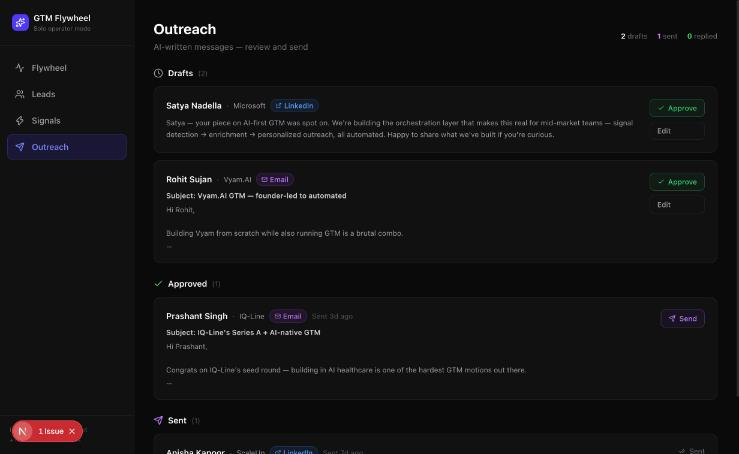
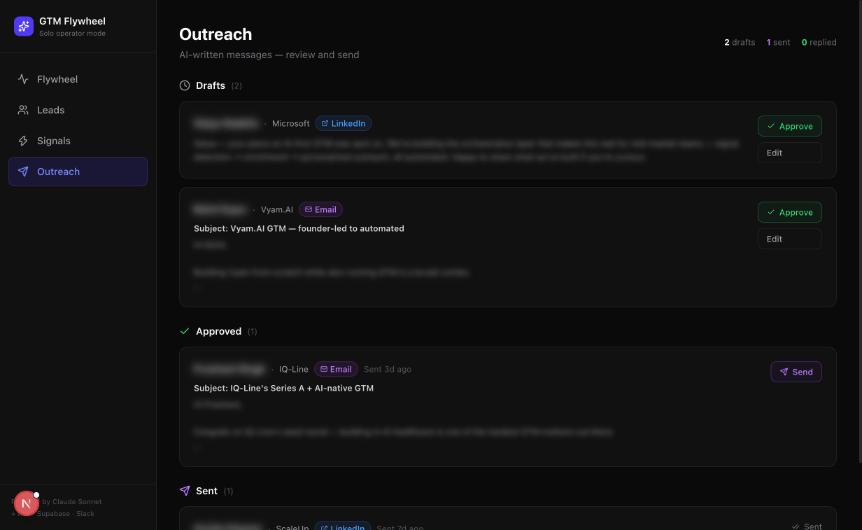
feat: wire HeyReach, Instantly, HubSpot, Slack integrations end-to-end
- Add integrations.ts with HeyReach, Instantly, HubSpot, Slack API clients
- Flywheel API: post Slack card on enrich, sync HubSpot on score,
  enroll HeyReach/Instantly and update HubSpot on write_outreach
- Fix Slack webhook to use SQLite instead of Supabase
- Update screenshots with names blurred for portfolio

diff --git a/src/lib/integrations.ts b/src/lib/integrations.ts
@@ -1,0 +1,181 @@
+const HEYREACH_BASE = "https://api.heyreach.io/api/public";
+const INSTANTLY_BASE = "https://api.instantly.ai/api/v2";
+const HUBSPOT_BASE = "https://api.hubapi.com";
+
+// ── HeyReach ──────────────────────────────────────────────────────────────────
+
+export async function addLeadToHeyReachCampaign(lead: {
+  linkedin_url: string;
+  full_name: string;
+  current_title?: string | null;
+  current_company?: string | null;
+  email?: string | null;
+}) {
+  const key = process.env.HEYREACH_API_KEY;
+  const campaignId = process.env.HEYREACH_CAMPAIGN_ID;
+  const accountId = process.env.HEYREACH_LINKEDIN_ACCOUNT_ID;
+  if (!key || !campaignId || !accountId) return { ok: false, error: "HeyReach not configured" };
+
+  const [firstName, ...rest] = lead.full_name.split(" ");
+  const lastName = rest.join(" ");
+
+  const res = await fetch(`${HEYREACH_BASE}/v1/campaign/AddLeadsToCampaign`, {
+    method: "POST",
+    headers: { "Content-Type": "application/json", "X-API-KEY": key },
+    body: JSON.stringify({
+      campaignId: Number(campaignId),
+      accountId: Number(accountId),
+      leadsToAdd: [{
+        profileUrl: lead.linkedin_url,
+        firstName,
+        lastName,
+        position: lead.current_title ?? "",
+        companyName: lead.current_company ?? "",
+        email: lead.email ?? "",
+      }],
+    }),
+  });
+
+  const data = await res.json().catch(() => ({}));
+  return { ok: res.ok, status: res.status, data };
+}
+
+// ── Instantly ─────────────────────────────────────────────────────────────────
+
+export async function addLeadToInstantlyCampaign(lead: {
+  email: string;
+  full_name: string;
+  current_company?: string | null;
+  current_title?: string | null;
+}) {
+  const key = process.env.INSTANTLY_API_KEY;
+  const campaignId = process.env.INSTANTLY_CAMPAIGN_ID;
+  if (!key || !campaignId) return { ok: false, error: "Instantly not configured" };
+
+  const res = await fetch(`${INSTANTLY_BASE}/leads`, {
+    method: "POST",
+    headers: { "Content-Type": "application/json", Authorization: `Bearer ${key}` },
+    body: JSON.stringify({
+      campaign_id: campaignId,
+      email: lead.email,
+      first_name: lead.full_name.split(" ")[0],
+      last_name: lead.full_name.split(" ").slice(1).join(" "),
+      company_name: lead.current_company ?? "",
+      personalization: `${lead.current_title ?? ""} at ${lead.current_company ?? ""}`.trim(),
+    }),
+  });
+
+  const data = await res.json().catch(() => ({}));
+  return { ok: res.ok, status: res.status, data };
+}
+
+// ── HubSpot ───────────────────────────────────────────────────────────────────
+
+export async function upsertHubSpotContact(lead: {
+  full_name: string;
+  email?: string | null;
+  current_title?: string | null;
+  current_company?: string | null;
+  location?: string | null;
+  linkedin_url: string;
+  fit_score?: number | null;
+  stage: string;
+}) {
+  const token = process.env.HUBSPOT_ACCESS_TOKEN;
+  if (!token) return { ok: false, error: "HubSpot not configured" };
+
+  const [firstName, ...rest] = lead.full_name.split(" ");
+  const props: Record<string, string> = {
+    firstname: firstName,
+    lastname: rest.join(" "),
+    jobtitle: lead.current_title ?? "",
+    company: lead.current_company ?? "",
+    city: lead.location ?? "",
+    linkedin_url: lead.linkedin_url,
+    hs_lead_status: lead.stage.toUpperCase(),
+  };
+  if (lead.email) props.email = lead.email;
+  if (lead.fit_score != null) props.gtm_fit_score = String(lead.fit_score);
+
+  // Search for existing contact by linkedin_url
+  const searchRes = await fetch(`${HUBSPOT_BASE}/crm/v3/objects/contacts/search`, {
+    method: "POST",
+    headers: { "Content-Type": "application/json", Authorization: `Bearer ${token}` },
+    body: JSON.stringify({
+      filterGroups: [{ filters: [{ propertyName: "linkedin_url", operator: "EQ", value: lead.linkedin_url }] }],
+      limit: 1,
+    }),
+  });
+  const searchData = await searchRes.json().catch(() => ({ results: [] }));
+  const existing = searchData.results?.[0];
+
+  if (existing) {
+    const patchRes = await fetch(`${HUBSPOT_BASE}/crm/v3/objects/contacts/${existing.id}`, {
+      method: "PATCH",
+      headers: { "Content-Type": "application/json", Authorization: `Bearer ${token}` },
+      body: JSON.stringify({ properties: props }),
+    });
+    const data = await patchRes.json().catch(() => ({}));
+    return { ok: patchRes.ok, action: "updated", contactId: existing.id, data };
+  }
+
+  const createRes = await fetch(`${HUBSPOT_BASE}/crm/v3/objects/contacts`, {
+    method: "POST",
+    headers: { "Content-Type": "application/json", Authorization: `Bearer ${token}` },
+    body: JSON.stringify({ properties: props }),
+  });
+  const data = await createRes.json().catch(() => ({}));
+  return { ok: createRes.ok, action: "created", contactId: data.id, data };
+}
+
+// ── Slack notify ──────────────────────────────────────────────────────────────
+
+export async function postSlackLeadCard(lead: {
+  id: string;
+  full_name: string;
+  current_title?: string | null;
+  current_company?: string | null;
+  fit_score?: number | null;
+  stage: string;
+  linkedin_url: string;
+  research?: string | null;
+}) {
+  const token = process.env.SLACK_BOT_TOKEN;
+  const channel = process.env.SLACK_CHANNEL_ID;
+  if (!token || !channel) return { ok: false, error: "Slack not configured" };
+
+  const scoreEmoji = lead.fit_score == null ? "⬜" : lead.fit_score >= 80 ? "🟢" : lead.fit_score >= 60 ? "🟡" : "🔴";
+
+  const res = await fetch("https://slack.com/api/chat.postMessage", {
+    method: "POST",
+    headers: { "Content-Type": "application/json", Authorization: `Bearer ${token}` },
+    body: JSON.stringify({
+      channel,
+      text: `New lead ready: ${lead.full_name}`,
+      blocks: [
+        {
+          type: "section",
+          text: {
+            type: "mrkdwn",
+            text: `*${lead.full_name}* · ${lead.current_title ?? "—"} @ ${lead.current_company ?? "—"}\n${scoreEmoji} Fit score: *${lead.fit_score ?? "—"}* · Stage: \`${lead.stage}\``,
+          },
+        },
+        ...(lead.research ? [{
+          type: "section",
+          text: { type: "mrkdwn", text: `_${lead.research.slice(0, 300)}…_` },
+        }] : []),
+        {
+          type: "actions",
+          elements: [
+            { type: "button", text: { type: "plain_text", text: "✅ Replied" }, action_id: "mark_replied", value: lead.id },
+            { type: "button", text: { type: "plain_text", text: "📅 Call Booked" }, action_id: "mark_call_booked", value: lead.id, style: "primary" },
+            { type: "button", text: { type: "plain_text", text: "❌ Lost" }, action_id: "mark_lost", value: lead.id, style: "danger" },
+          ],
+        },
+      ],
+    }),
+  });
+
+  const data = await res.json().catch(() => ({}));
+  return { ok: res.ok && data.ok, data };
+}

diff --git a/src/app/api/flywheel/route.ts b/src/app/api/flywheel/route.ts
@@ -1,6 +1,12 @@
 import { NextRequest, NextResponse } from "next/server";
 import { getDb, parseLead, serializeJson } from "@/lib/db";
 import { scoreLead, writeOutreach, researchLead } from "@/agents/flywheel-agent";
+import {
+  addLeadToHeyReachCampaign,
+  addLeadToInstantlyCampaign,
+  upsertHubSpotContact,
+  postSlackLeadCard,
+} from "@/lib/integrations";
 import type { Lead } from "@/types";
 
 export async function POST(req: NextRequest) {
@@ -33,8 +39,21 @@ export async function POST(req: NextRequest) {
             last_enriched_at = datetime('now'), updated_at = datetime('now')
         WHERE id = ?
       `).run(research, serializeJson(talking_points), lead_id);
-      const updated = parseLead(db.prepare("SELECT * FROM leads WHERE id = ?").get(lead_id));
-      return NextResponse.json({ lead: updated });
+      const enriched = parseLead(db.prepare("SELECT * FROM leads WHERE id = ?").get(lead_id)) as Lead;
+
+      // Notify Slack that lead is enriched and ready for review
+      postSlackLeadCard({
+        id: enriched.id,
+        full_name: enriched.full_name ?? "Unknown",
+        current_title: enriched.current_title,
+        current_company: enriched.current_company,
+        fit_score: enriched.fit_score,
+        stage: enriched.stage,
+        linkedin_url: enriched.linkedin_url ?? "",
+        research: enriched.research,
+      }).catch(() => null);
+
+      return NextResponse.json({ lead: enriched });
     }
 
     case "score": {
@@ -42,20 +61,69 @@ export async function POST(req: NextRequest) {
       db.prepare(`
         UPDATE leads SET fit_score = ?, stage = 'scored', updated_at = datetime('now') WHERE id = ?
       `).run(score, lead_id);
-      const updated = parseLead(db.prepare("SELECT * FROM leads WHERE id = ?").get(lead_id));
-      return NextResponse.json({ lead: updated, score });
+      const scored = parseLead(db.prepare("SELECT * FROM leads WHERE id = ?").get(lead_id)) as Lead;
+
+      // Sync to HubSpot when scored
+      upsertHubSpotContact({
+        full_name: scored.full_name ?? "Unknown",
+        email: scored.email,
+        current_title: scored.current_title,
+        current_company: scored.current_company,
+        location: scored.location,
+        linkedin_url: scored.linkedin_url ?? "",
+        fit_score: scored.fit_score,
+        stage: scored.stage,
+      }).catch(() => null);
+
+      return NextResponse.json({ lead: scored, score });
     }
 
     case "write_outreach": {
       const channel = lead.outreach_channel ?? "email";
-      const msg = await writeOutreach(lead, channel === "both" ? "email" : channel);
+      const effectiveChannel = channel === "both" ? "email" : channel;
+      const msg = await writeOutreach(lead, effectiveChannel);
       const msgId = crypto.randomUUID();
       db.prepare(`
         INSERT INTO outreach_messages (id, lead_id, channel, subject, body, status)
         VALUES (?, ?, ?, ?, ?, 'draft')
-      `).run(msgId, lead_id, channel, msg.subject ?? null, msg.body);
+      `).run(msgId, lead_id, effectiveChannel, msg.subject ?? null, msg.body);
+
+      // Enroll in outreach sequences
+      if (effectiveChannel === "linkedin" || channel === "both") {
+        addLeadToHeyReachCampaign({
+          linkedin_url: lead.linkedin_url ?? "",
+          full_name: lead.full_name ?? "Unknown",
+          current_title: lead.current_title,
+          current_company: lead.current_company,
+          email: lead.email,
+        }).catch(() => null);
+      }
+      if ((effectiveChannel === "email" || channel === "both") && lead.email) {
+        addLeadToInstantlyCampaign({
+          email: lead.email,
+          full_name: lead.full_name ?? "Unknown",
+          current_company: lead.current_company,
+          current_title: lead.current_title,
+        }).catch(() => null);
+      }
+
+      // Update HubSpot stage to outreach_sent
+      upsertHubSpotContact({
+        full_name: lead.full_name ?? "Unknown",
+        email: lead.email,
+        current_title: lead.current_title,
+        current_company: lead.current_company,
+        location: lead.location,
+        linkedin_url: lead.linkedin_url ?? "",
+        fit_score: lead.fit_score,
+        stage: "outreach_sent",
+      }).catch(() => null);
+
+      db.prepare(`UPDATE leads SET stage = 'outreach_sent', updated_at = datetime('now') WHERE id = ?`).run(lead_id);
+
       const inserted = db.prepare("SELECT * FROM outreach_messages WHERE id = ?").get(msgId);
-      return NextResponse.json({ message: inserted });
+      const updatedLead = parseLead(db.prepare("SELECT * FROM leads WHERE id = ?").get(lead_id));
+      return NextResponse.json({ message: inserted, lead: updatedLead });
     }
 
     default:

diff --git a/src/app/api/webhook/slack/route.ts b/src/app/api/webhook/slack/route.ts
@@ -1,7 +1,7 @@
 import { NextRequest, NextResponse } from "next/server";
-import { getSupabase } from "@/lib/supabase";
+import { getDb, newId } from "@/lib/db";
 
-// Receives Slack events + button interactions from n8n webhook relay
+// Receives Slack events + button interactions
 export async function POST(req: NextRequest) {
   const body = await req.json();
 
@@ -10,31 +10,27 @@ export async function POST(req: NextRequest) {
     return NextResponse.json({ challenge: body.challenge });
   }
 
-  // Button action from SDR (replied / call booked / lost)
+  const db = getDb();
+
+  // Button action from SDR (replied / call_booked / lost)
   if (body.type === "block_actions") {
     const action = body.actions?.[0];
     const lead_id = action?.value;
     const action_id = action?.action_id;
 
-    if (!lead_id || !action_id) {
-      return NextResponse.json({ ok: true });
-    }
-
-    const stageMap: Record<string, string> = {
-      mark_replied: "replied",
-      mark_call_booked: "call_booked",
-      mark_won: "won",
-      mark_lost: "lost",
-      mark_nurture: "nurture",
-    };
-
-    const newStage = stageMap[action_id];
-    if (newStage) {
-      const supabase = getSupabase();
-      await supabase
-        .from("leads")
-        .update({ stage: newStage, updated_at: new Date().toISOString() })
-        .eq("id", lead_id);
+    if (lead_id && action_id) {
+      const stageMap: Record<string, string> = {
+        mark_replied: "replied",
+        mark_call_booked: "call_booked",
+        mark_won: "won",
+        mark_lost: "lost",
+        mark_nurture: "nurture",
+      };
+      const newStage = stageMap[action_id];
+      if (newStage) {
+        db.prepare(`UPDATE leads SET stage = ?, updated_at = ? WHERE id = ?`)
+          .run(newStage, new Date().toISOString(), lead_id);
+      }
     }
 
     return NextResponse.json({ ok: true });
@@ -44,17 +40,12 @@ export async function POST(req: NextRequest) {
   const event = body.event;
   if (event?.type === "message" && event.text?.startsWith("/prospect ")) {
     const url = event.text.replace("/prospect ", "").trim();
-    if (!url.includes("linkedin.com")) {
-      return NextResponse.json({ ok: true });
+    if (url.includes("linkedin.com")) {
+      db.prepare(`
+        INSERT INTO leads (id, linkedin_url, stage, signals, created_at, updated_at)
+        VALUES (?, ?, 'new', '[]', ?, ?)
+      `).run(newId(), url, new Date().toISOString(), new Date().toISOString());
     }
-
-    const supabase = getSupabase();
-    await supabase.from("leads").insert({
-      linkedin_url: url,
-      stage: "new",
-      signals: [],
-      source_url: "slack",
-    });
   }
 
   return NextResponse.json({ ok: true });
